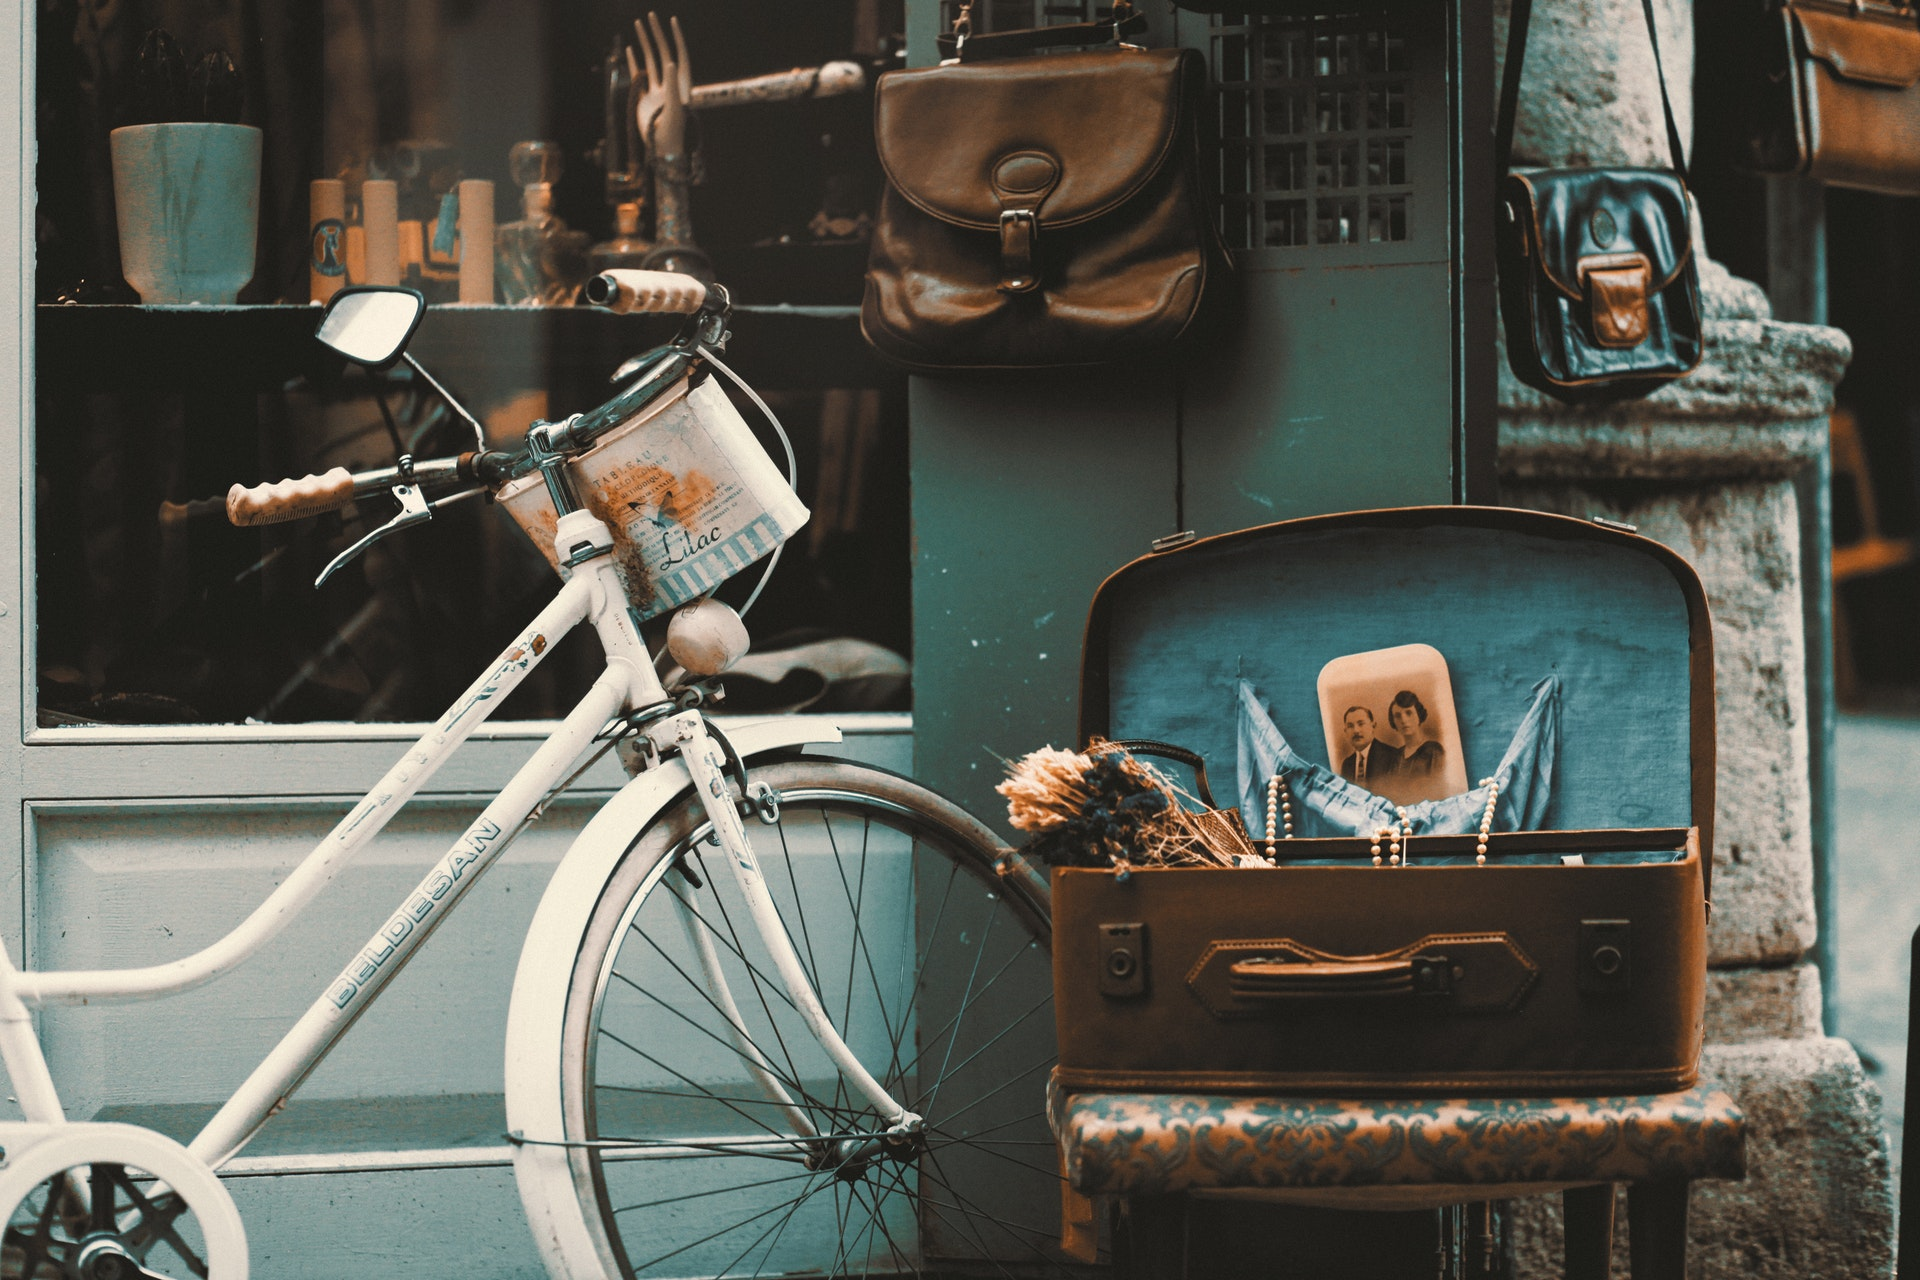
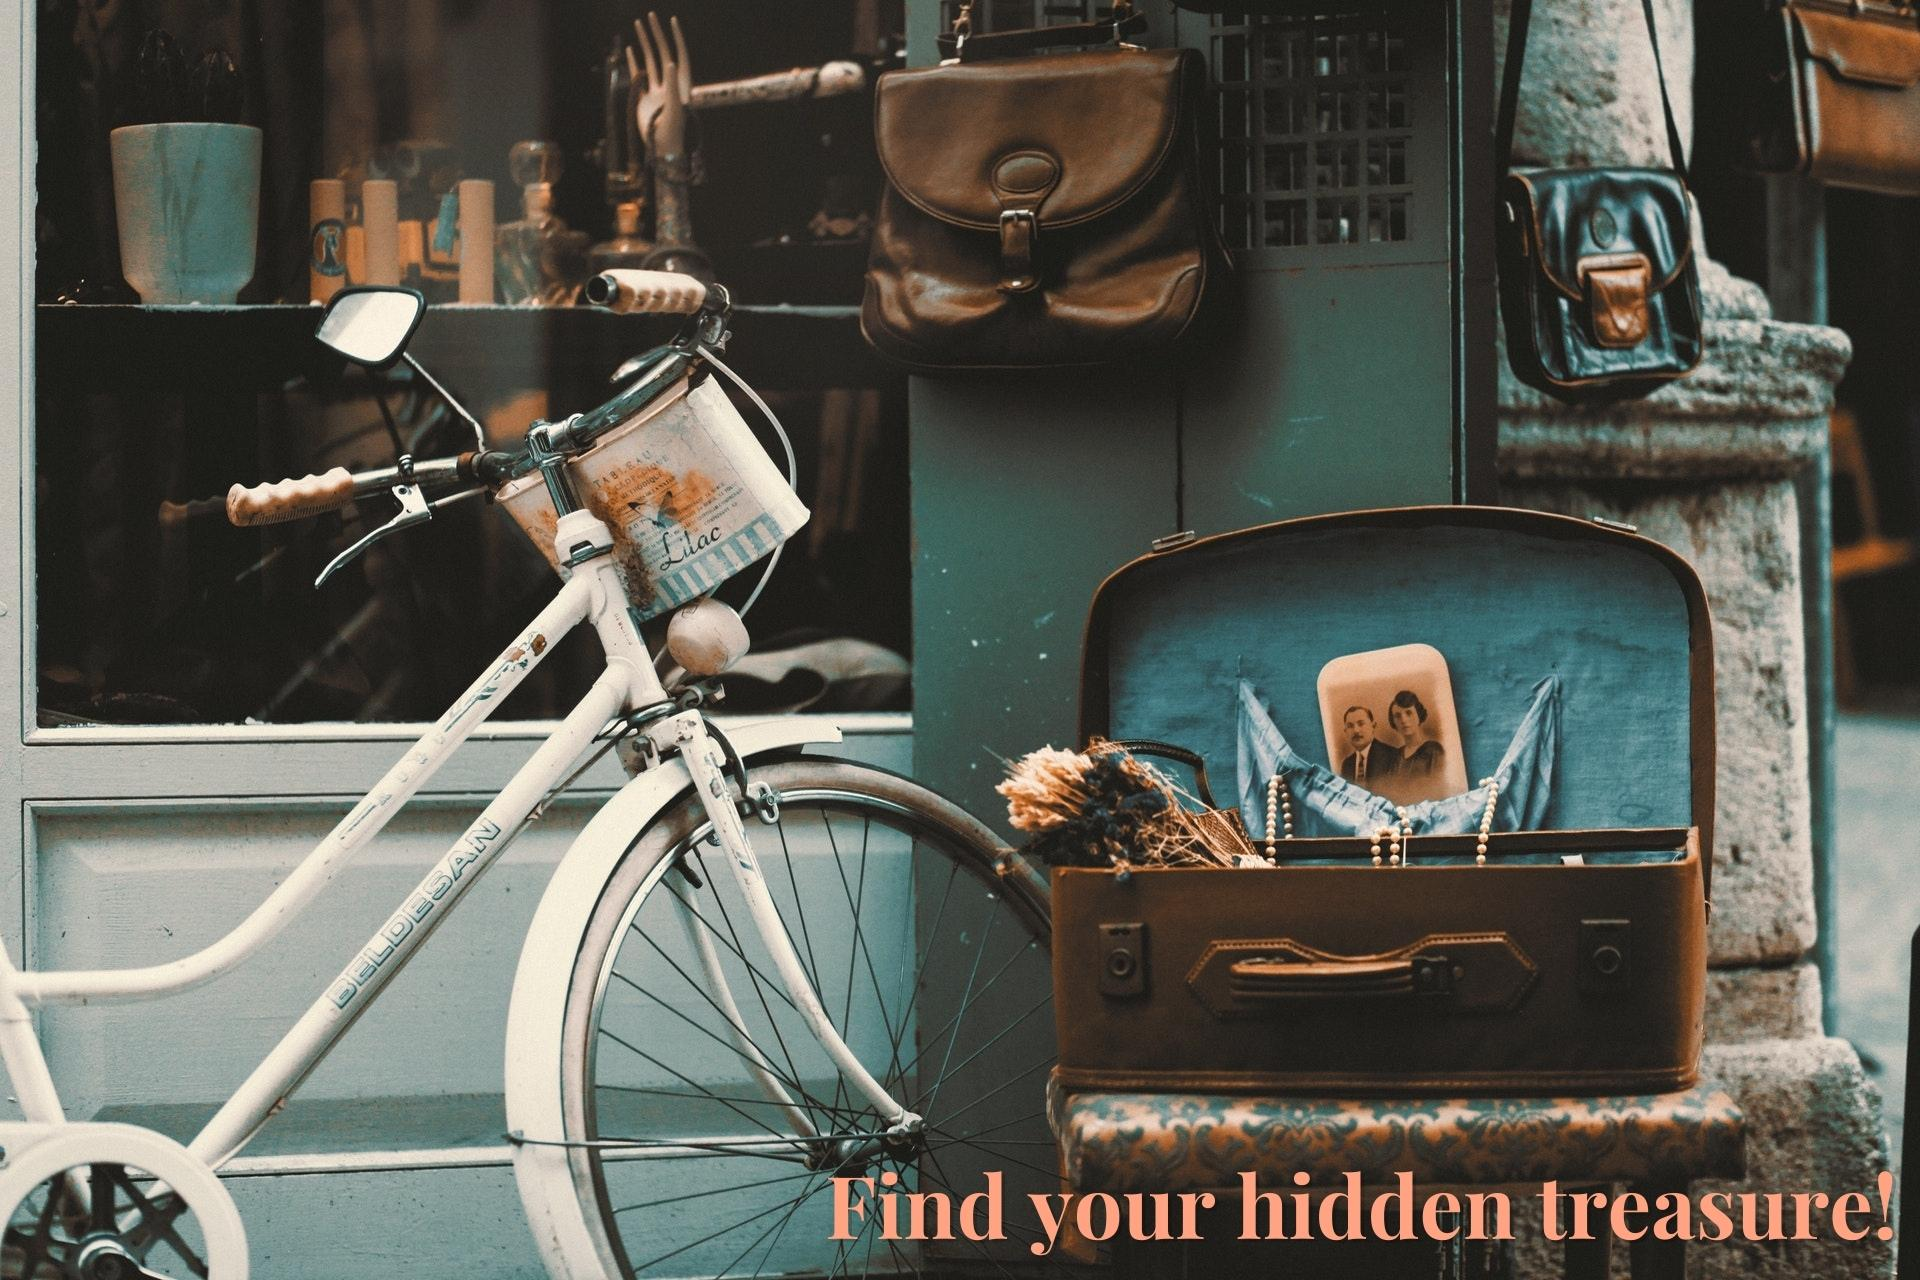
added navbar, jumbotron and carousel

Changed region(s): [[0.4062, 0.9062, 1.0, 1.0]]

diff --git a/index.html b/index.html
@@ -16,51 +16,109 @@
     <title>Not My Sister's Style</title>
   </head>
   <body>
-    <!--Carousel Section-->
-    <div class="container mt-5">
-    <div id="carouselExampleControls" class="carousel slide" data-bs-ride="carousel">
-      <div class="carousel-inner">
-        <div class="carousel-item active">
-          <img src="./img/booth-with-pear-sign.jpg" class="d-block w-100" alt="...">
-        </div>
-        <div class="carousel-item">
-          <img src="./img/trinket-display-cabinet.jpg" class="d-block w-100" alt="...">
-        </div>
-        <div class="carousel-item">
-          <img src="./img/horseshoes.jpg" class="d-block w-100" alt="...">
-        </div>
-        <div class="carousel-item">
-          <img src="./img/globes-and-corbels.jpg" class="d-block w-100" alt="...">
-        </div>
-        <div class="carousel-item">
-          <img src="./img/casket.jpg" class="d-block w-100" alt="...">
-        </div>
-        <div class="carousel-item">
-          <img src="./img/creepy-dolls.jpg" class="d-block w-100" alt="...">
-        </div>
-        <div class="carousel-item">
-          <img src="./img/kent-state-moulton-hall.jpg" class="d-block w-100" alt="...">
-        </div>
-        <div class="carousel-item">
-          <img src="./img/post-cards.jpg" class="d-block w-100" alt="...">
-        </div>
-        <div class="carousel-item">
-          <img src="./img/rolling-pins.jpg" class="d-block w-100" alt="...">
-        </div>
-        <div class="carousel-item">
-          <img src="./img/quilt.jpg" class="d-block w-100" alt="...">
-        </div>
+  <!--NavBar-->
+  <nav class="navbar navbar-expand-lg navbar-dark sticky-top" style="background-color: #265460;">
+    <div class="container-fluid">
+      <a class="navbar-brand" href="#">
+        <img src="./img/nmss-logo.png" alt="not my sister's style logo with victorian woman" width="100" height="100">
+      </a>
+      <button class="navbar-toggler" type="button" data-bs-toggle="collapse" data-bs-target="#navbarSupportedContent" aria-controls="navbarSupportedContent" aria-expanded="false" aria-label="Toggle navigation">
+        <span class="navbar-toggler-icon"></span>
+      </button>
+      <div class="collapse navbar-collapse" id="navbarSupportedContent">
+        <ul class="navbar-nav me-auto mb-2 mb-lg-0">
+          <li class="nav-item">
+            <a class="nav-link active" aria-current="page" href="#">Home</a>
+          </li>
+          <li class="nav-item">
+            <a class="nav-link" href="#">Our Products</a>
+          </li>
+          <li class="nav-item">
+            <a class="nav-link" href="#">About Us</a>
+          </li>
+          <li class="nav-item">
+            <a class="nav-link" href="#">Visit</a>
+          </li>
+          <li class="nav-item">
+            <a class="nav-link" href="#">Contact</a>
+          </li>
+          <!-- <li class="nav-item dropdown">
+            <a class="nav-link dropdown-toggle" href="#" id="navbarDropdown" role="button" data-bs-toggle="dropdown" aria-expanded="false">
+              Dropdown
+            </a>
+            <ul class="dropdown-menu" aria-labelledby="navbarDropdown">
+              <li><a class="dropdown-item" href="#">Action</a></li>
+              <li><a class="dropdown-item" href="#">Another action</a></li>
+              <li><hr class="dropdown-divider"></li>
+              <li><a class="dropdown-item" href="#">Something else here</a></li>
+            </ul>
+          </li>
+          <li class="nav-item">
+            <a class="nav-link disabled">Disabled</a>
+          </li> -->
+        </ul>
+        <form class="d-flex">
+          <input class="form-control me-2" type="search" placeholder="Search" aria-label="Search">
+          <button class="btn btn-outline-light" type="submit">Search</button>
+        </form>
       </div>
-      <button class="carousel-control-prev" type="button" data-bs-target="#carouselExampleControls" data-bs-slide="prev">
-        <span class="carousel-control-prev-icon" aria-hidden="true"></span>
-        <span class="visually-hidden">Previous</span>
-      </button>
-      <button class="carousel-control-next" type="button" data-bs-target="#carouselExampleControls" data-bs-slide="next">
-        <span class="carousel-control-next-icon" aria-hidden="true"></span>
-        <span class="visually-hidden">Next</span>
-      </button>
     </div>
-    </div>
+  </nav>
+
+  <!--Jumbotron-->
+<div class="container-fluid">
+  <img src="./img/jumbotron-image-bike.jpg" class="img-fluid" alt="antique store with bike and suitcase">
+</div>
+
+<!--Carousel Section-->
+<div class="container-fluid text-center mt-5">
+  <h2>Browse our Wares</h2>
+    <div class="container mt-5">
+      <div id="carouselExampleControls" class="carousel slide" data-bs-ride="carousel">
+        <div class="carousel-inner">
+          <div class="carousel-item active">
+            <img src="./img/booth-with-pear-sign.jpg" class="d-block w-100" alt="...">
+          </div>
+          <div class="carousel-item">
+            <img src="./img/trinket-display-cabinet.jpg" class="d-block w-100" alt="...">
+          </div>
+          <div class="carousel-item">
+            <img src="./img/buttons.jpg" class="d-block w-100" alt="...">
+          </div>
+          <div class="carousel-item">
+            <img src="./img/globes-and-corbels.jpg" class="d-block w-100" alt="...">
+          </div>
+          <div class="carousel-item">
+            <img src="./img/casket.jpg" class="d-block w-100" alt="...">
+          </div>
+          <div class="carousel-item">
+            <img src="./img/creepy-dolls.jpg" class="d-block w-100" alt="...">
+          </div>
+          <div class="carousel-item">
+            <img src="./img/kent-state-moulton-hall.jpg" class="d-block w-100" alt="...">
+          </div>
+          <div class="carousel-item">
+            <img src="./img/post-cards.jpg" class="d-block w-100" alt="...">
+          </div>
+          <div class="carousel-item">
+            <img src="./img/rolling-pins.jpg" class="d-block w-100" alt="...">
+          </div>
+          <div class="carousel-item">
+            <img src="./img/quilt.jpg" class="d-block w-100" alt="...">
+          </div>
+        </div>
+        <button class="carousel-control-prev" type="button" data-bs-target="#carouselExampleControls" data-bs-slide="prev">
+          <span class="carousel-control-prev-icon" aria-hidden="true"></span>
+          <span class="visually-hidden">Previous</span>
+        </button>
+        <button class="carousel-control-next" type="button" data-bs-target="#carouselExampleControls" data-bs-slide="next">
+          <span class="carousel-control-next-icon" aria-hidden="true"></span>
+          <span class="visually-hidden">Next</span>
+        </button>
+      </div>
+      </div>
+
+
 
     <!-- Optional JavaScript; choose one of the two! -->
 
